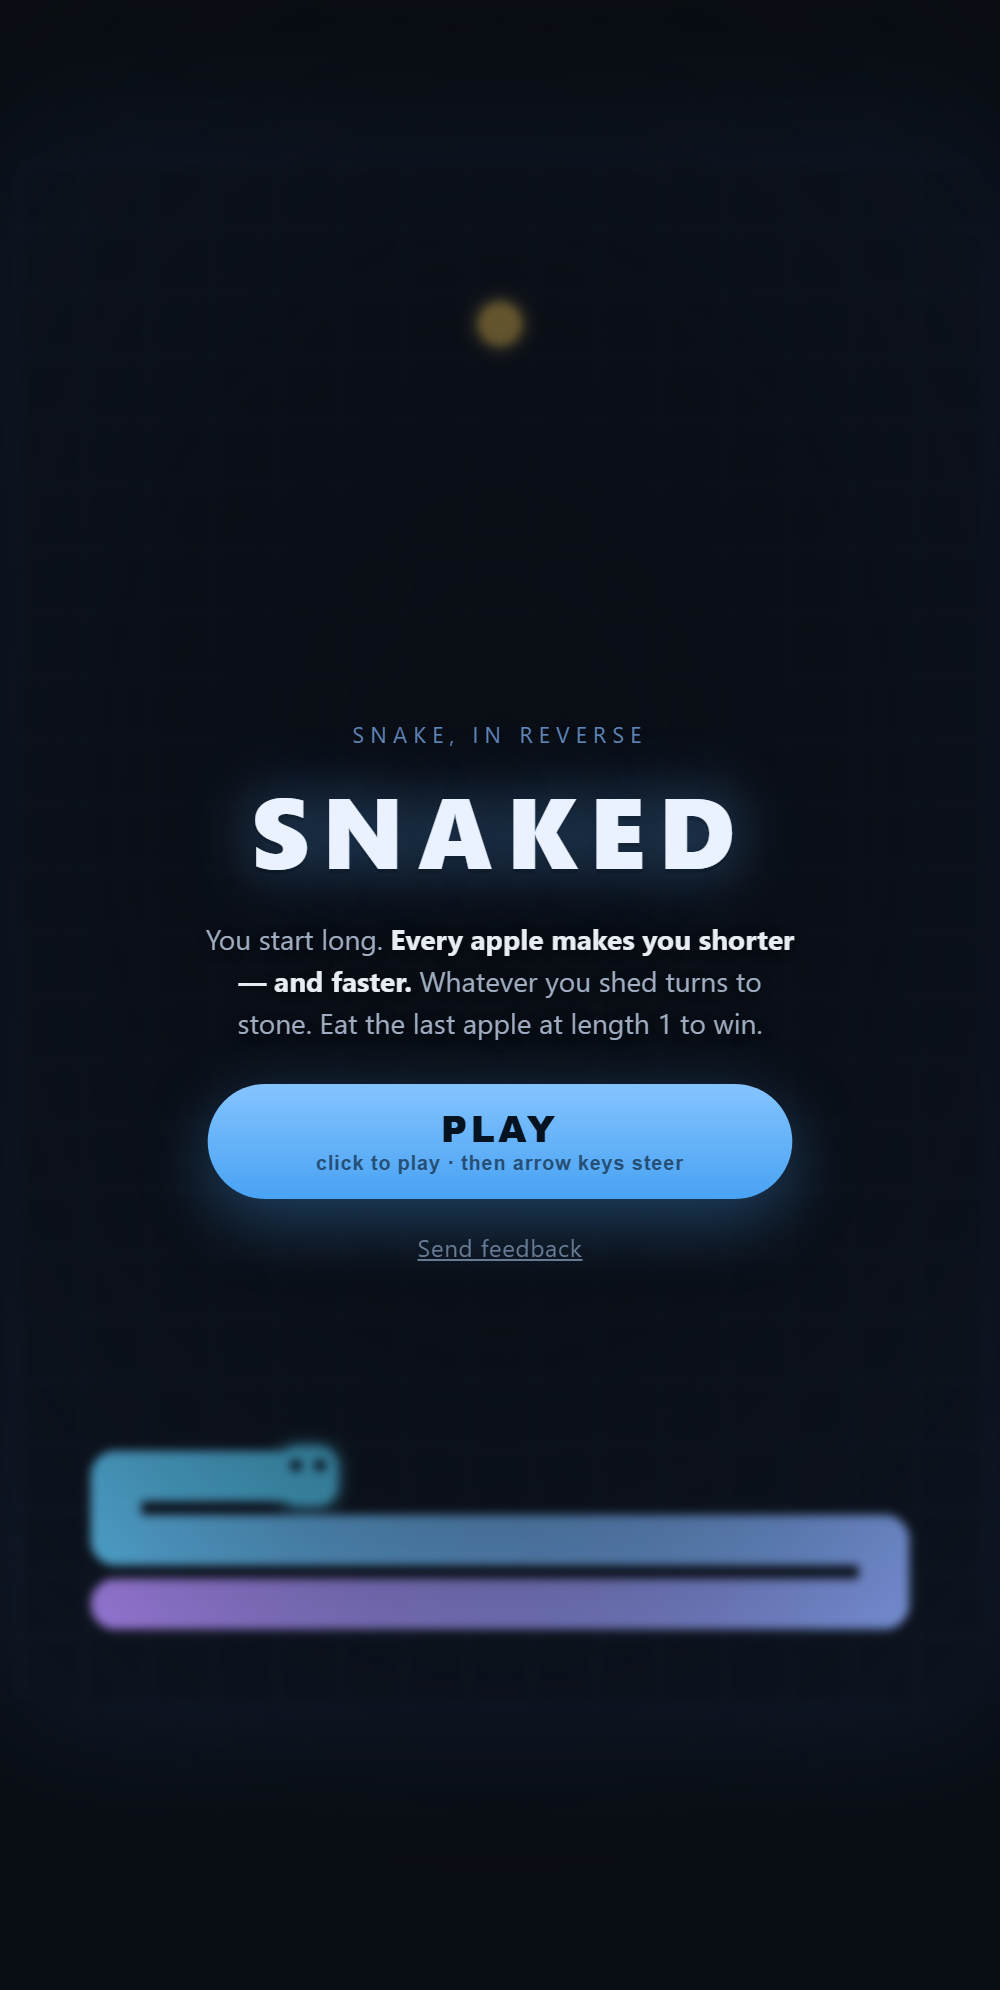
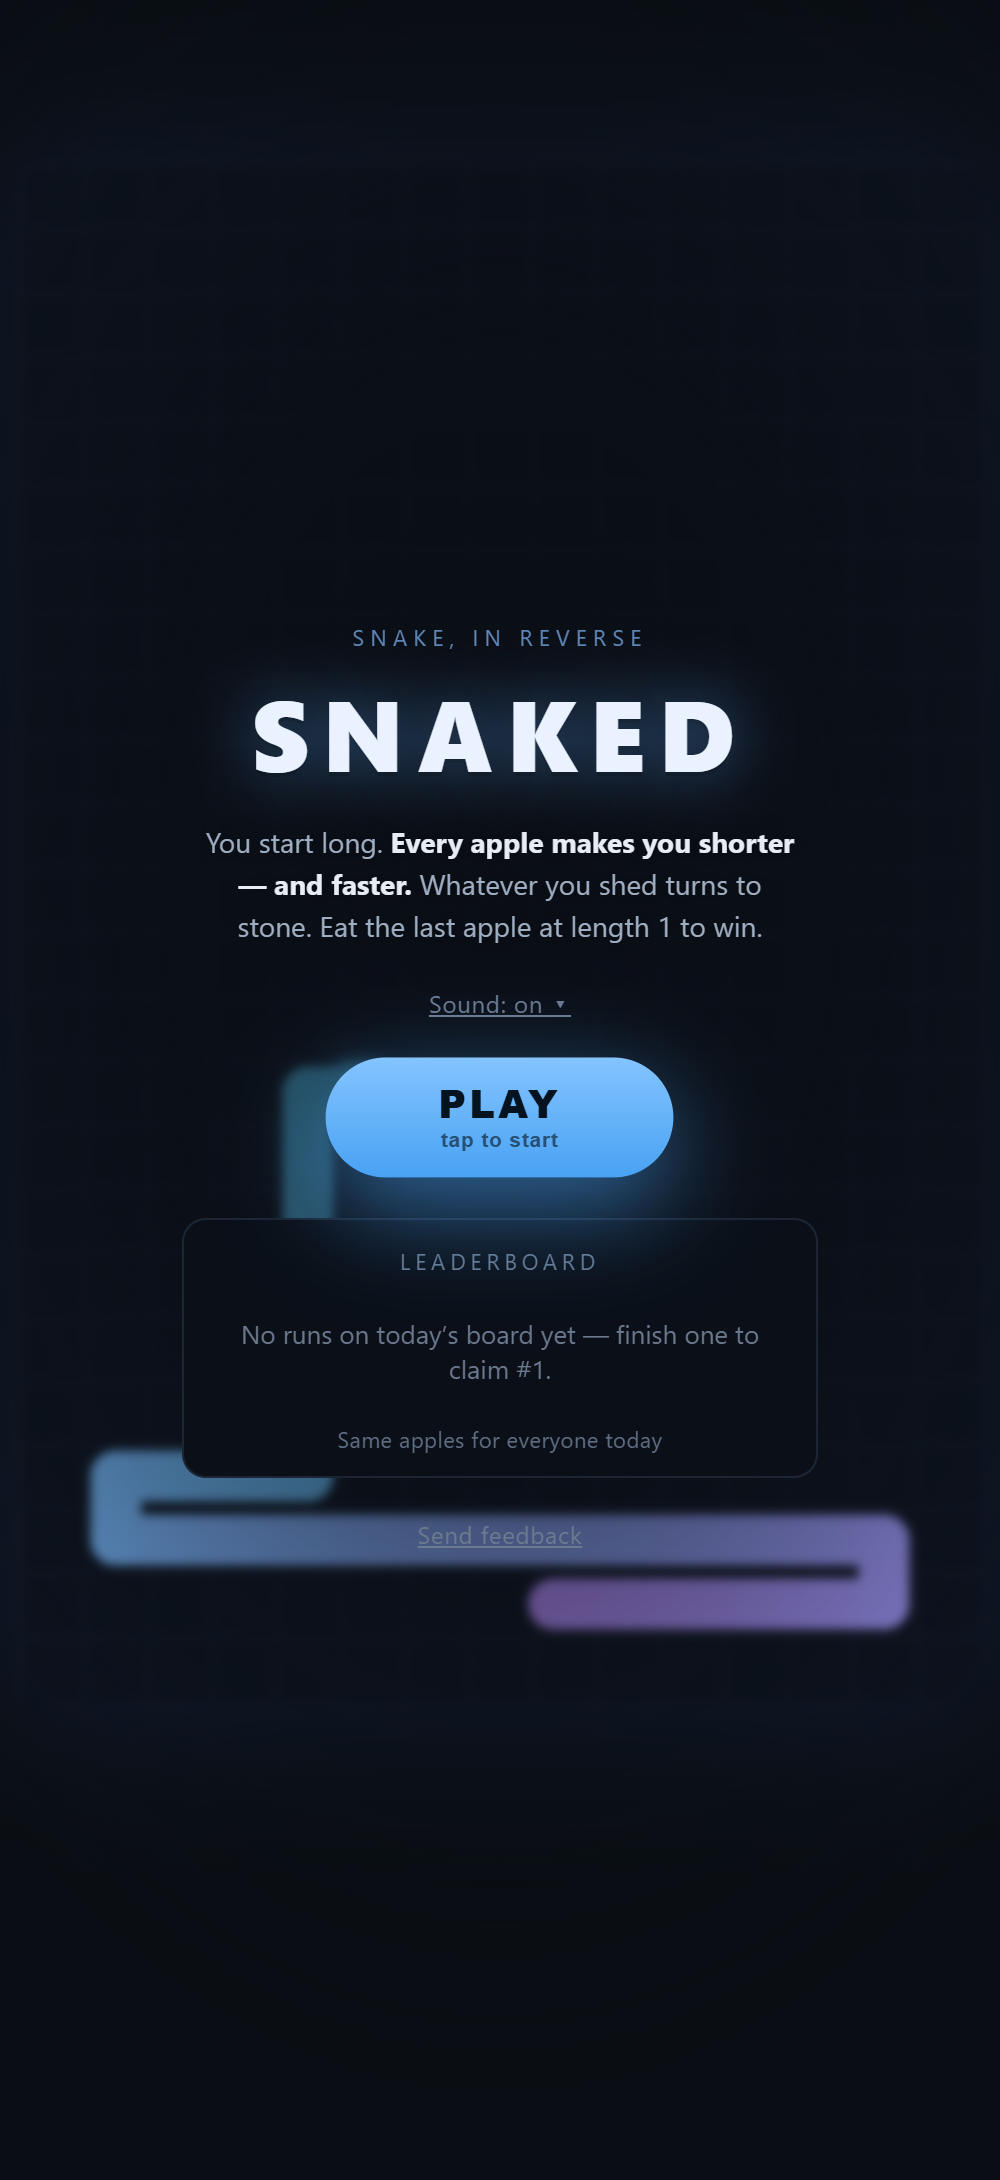
Launch kit: menu screenshot re-shot from the live link at phone width (sound link, tap to start, leaderboard panel)

Changed region(s): [[0.062, 0.3116, 0.93, 0.8412], [0.465, 0.1246, 0.527, 0.1869]]

diff --git a/press/launch-copy.md b/press/launch-copy.md
@@ -8,7 +8,7 @@ Assets in this folder:
 |---|---|
 | `snaked-run.gif` | 27s loop, 324x568, 1.6 MB. One full winning run by the demo bot at real speed: 30 pieces down to 1, the board filling with stone, the speed-up at the end, then a title card. Lead with this, the speed-up is invisible in a still. |
 | `itch-cover.png` | 630x500 itch cover: SNAKED over a real mid-run board. |
-| `shot-0-menu.png` | Menu at phone width (2x). |
+| `shot-0-menu.png` | Menu at phone width (2x), re-shot 16 Sep. |
 | `shot-1-long-and-slow.png` | 3s in: full length, almost no stone. |
 | `shot-2-halfway.png` | Length 14, stone spreading. |
 | `shot-3-nearly-gone.png` | Length 4, fast, boxed in by stone. Strongest single image. |
@@ -116,8 +116,9 @@ Not included. Breakin skipped HN (Lok, 13 Sep); same call for Snaked unless Lok 
   real run on your phone before posting to prove it works end to end.
 - **Screenshots, GIF and cover are from 15 Sep morning, before the new phone layout**
   (board filling the screen, d-pad over its foot, sound link on the menu). The
-  gameplay shots still read fine; `shot-0-menu.png` shows the old menu. Re-shoot
-  from your phone during Thursday's pass, or ask a session to re-render them.
+  gameplay shots still read fine. `shot-0-menu.png` was re-shot from the live link
+  on 16 Sep (sound link, "tap to start", leaderboard panel), but the board in it is
+  empty - re-shoot it once a few real runs are on today's board.
 - **"Tested it on my own phone":** true only after Thursday's device pass.
 - **"More than twice as fast":** 0.16s per move at full length vs 0.06s at length 1
   is 2.7x. Correct as long as the fixed rules don't change.
